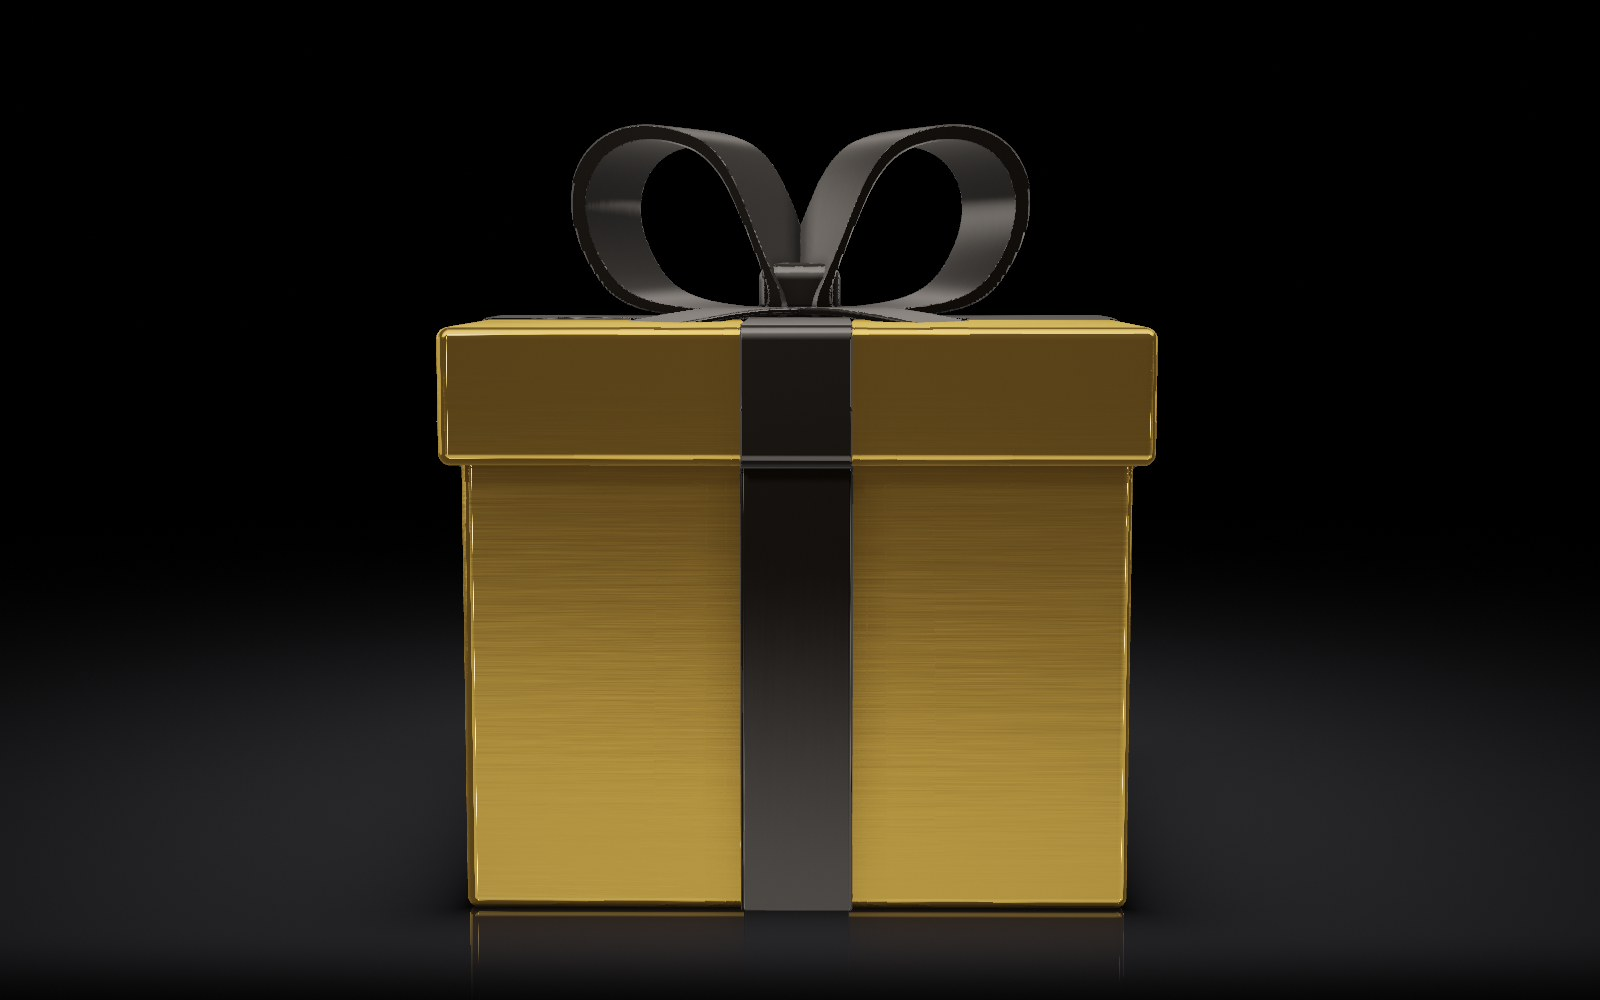
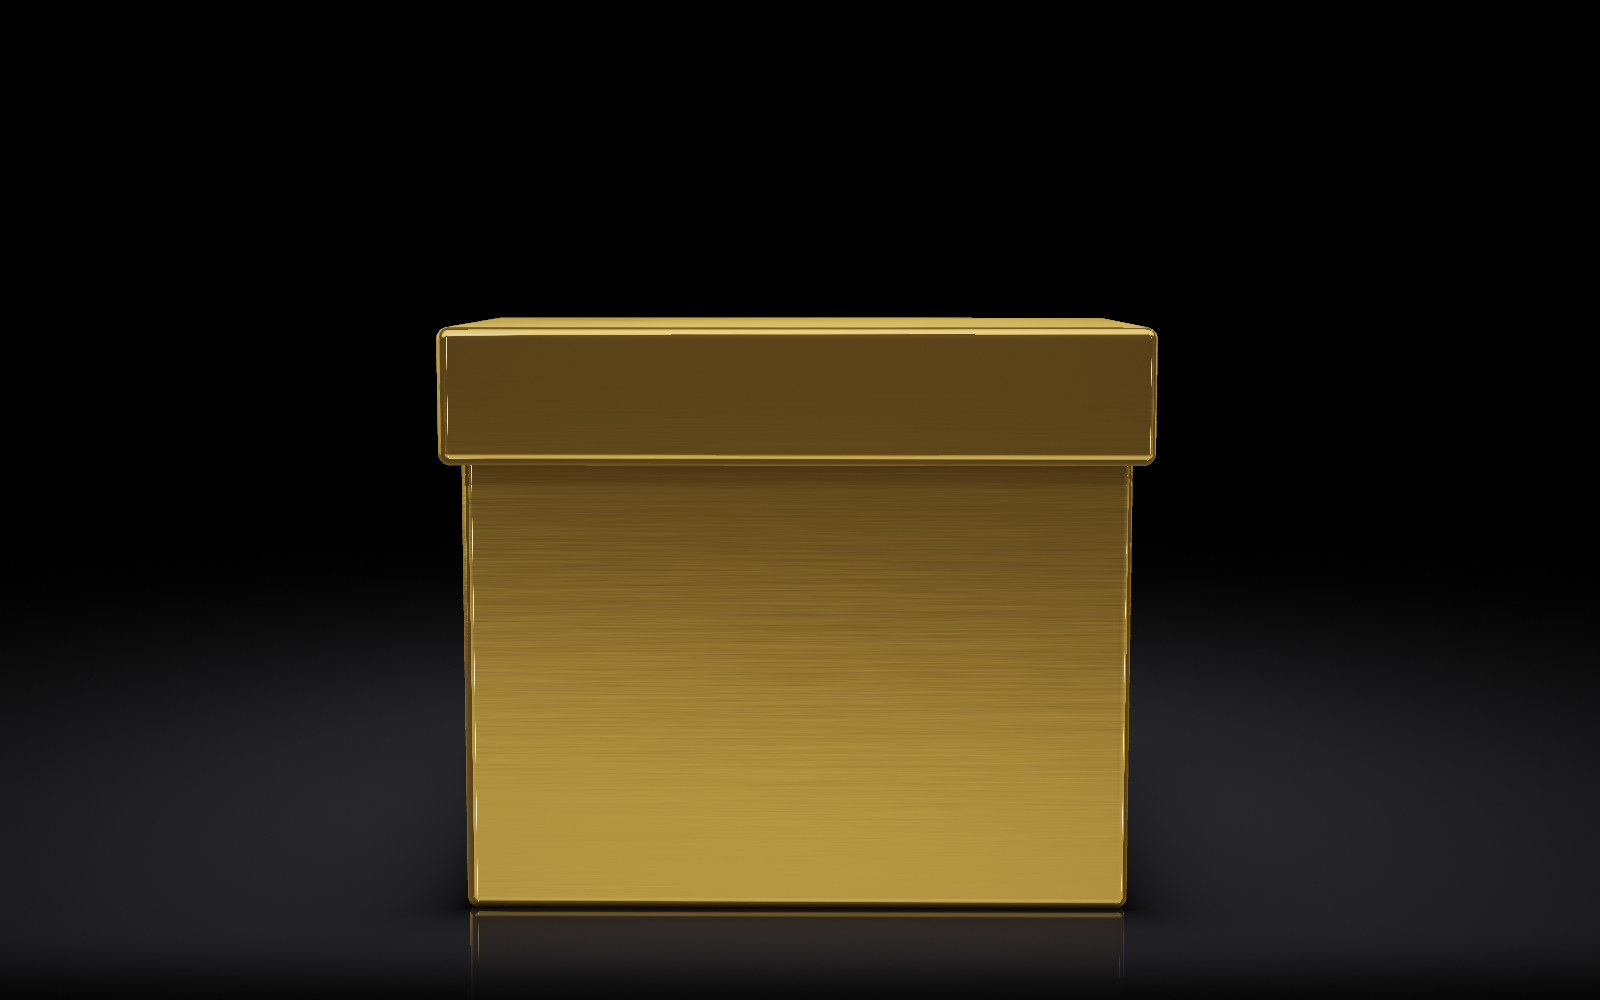
The welcome after the owner's first try: no ribbon and a calmer opening, words that say what the person gets, words centred above the keys, and the message as the last thing before the app (#3961)

Changed region(s): [[0.2812, 0.124, 0.7188, 0.93]]

diff --git a/crates/oni-app/src/stage/unwrap.rs b/crates/oni-app/src/stage/unwrap.rs
@@ -1,5 +1,5 @@
-//! How each gift comes undone: its bow drawn through its knot, its bands fallen open, light leaking under its lid,
-//! then the lid's own way off: a case's for the silver one, a toss for the copper, a flower's for the mystery.
+//! How each gift opens: light leaking under its lid, then the lid's own way off: a case's for the silver one, a
+//! lift for the copper and the gold, a flower's for the mystery.
 
 use super::direction::{LID, STAND};
 use super::ease::{give, glide, land, mix, span};
@@ -22,13 +22,14 @@ pub struct Parts {
 
 impl Parts {
     pub fn tied() -> Parts {
-        Parts { lid: [0.0; 4], tie: [1.0, 1.0, 1.0, 0.0], open: 0.0, seam: 0.0, rise: 0.0, spin: 0.0, lift: 0.0 }
+        // No ribbon: a closed box, its lid seated, no light out of it.
+        Parts { lid: [0.0; 4], tie: [0.0; 4], open: 0.0, seam: 0.0, rise: 0.0, spin: 0.0, lift: 0.0 }
     }
 }
 
 /// How long each gift's untying lasts, and the moment its lid goes.
-const LENGTH: [f32; 4] = [3.6, 4.2, 6.2, 7.0];
-const POP: [f32; 4] = [1.6, 1.9, 2.6, 4.0];
+const LENGTH: [f32; 4] = [2.2, 2.4, 3.2, 3.6];
+const POP: [f32; 4] = [0.8, 0.8, 1.0, 1.4];
 /// How high each opened gift's light stands, a share of the tallest: the silver one's is a breath over its mouth.
 const COLUMN: [f32; 4] = [0.45, 0.8, 1.0, 0.9];
 
@@ -42,7 +43,7 @@ pub fn pop(gift: usize) -> f32 {
 
 /// The second a gift's title arrives: once its lid is down, or its walls open.
 pub fn title(gift: usize) -> f32 {
-    POP[gift] + [0.9, 0.9, 1.3, 1.3][gift]
+    POP[gift] + [0.7, 0.8, 1.1, 1.3][gift]
 }
 
 /// Where the camera starts round each gift and how far it turns while the gift comes undone, in radians.
@@ -80,24 +81,12 @@ fn hinged(angle: f32) -> [f32; 4] {
     [0.0, y - (cos * y - sin * z), z - (sin * y + cos * z), -angle]
 }
 
-/// A gift untied `t` seconds into its act.
+/// A gift opened `t` seconds into its act: a hairline of light under its lid grows as the box fills, the lid
+/// trembles, then lifts away its own way, and the light stands up in the box.
 pub fn untied(gift: usize, t: f32) -> Parts {
     let pop = POP[gift];
     let mut parts = Parts::tied();
-    // When the bow is drawn through its knot, and when the body's bands let go.
-    let (pulled, fall) = match gift {
-        2 => (0.5, (1.2, 1.9)),
-        3 => (2.9, (3.1, 3.8)),
-        _ => (0.3, (0.8, 1.4)),
-    };
-    // Its loops swell a little as the tails take the strain, then run through the knot; what is left narrows away.
-    let drawn = glide(span(t, pulled, pulled + 0.9));
-    parts.tie[0] = mix(1.0 + 0.14 * glide(span(t, (pulled - 0.5f32).max(0.0), pulled)), 0.3, drawn) - 0.3 * glide(span(t, pulled + 0.9, pulled + 1.4));
-    parts.tie[1] = 1.0 - glide(span(t, pulled + 0.7, pulled + 1.4));
-    // The bands fall open and stay where they lie.
-    parts.tie[2] = mix(1.0, 0.5, give(span(t, fall.0, fall.1)));
-    // A hairline of light under the lid grows as the box fills; the lid trembles, then goes, and the light stands up.
-    parts.seam = glide(span(t, pop - 1.0, pop - 0.1)) * (1.0 - span(t, pop, pop + 0.15));
+    parts.seam = glide(span(t, 0.1, pop - 0.05)) * (1.0 - span(t, pop, pop + 0.15));
     let pressed = span(t, pop - 0.35, pop) * (1.0 - span(t, pop, pop + 0.01));
     parts.lid[3] = 0.02 * pressed * (t * 46.0).sin();
     parts.lid[1] = 0.012 * pressed * (t * 38.0).sin().abs();
@@ -108,25 +97,26 @@ pub fn untied(gift: usize, t: f32) -> Parts {
     match gift {
         // The silver one opens like a case: its lid swings back on its rear edge and stays.
         0 => parts.lid = if t >= pop { hinged(1.95 * land(span(t, pop, pop + 0.45)) + 0.08 * (-(t - pop - 0.45).max(0.0) * 6.0).exp() * ((t - pop - 0.45).max(0.0) * 15.0).sin()) } else { parts.lid },
-        2 => parts.lid = if t >= pop { flight(gift, t - pop, 2.6, 1.0, 1.4) } else { parts.lid },
+        // The huge one's lid lifts slowly, level, and settles behind it.
+        2 => parts.lid = if t >= pop { flight(gift, t - pop, 1.4, 0.0, 1.5) } else { parts.lid },
         3 => {
             // It turns once on itself, its inks sweeping, then its lid rises away and its walls fall open.
-            parts.spin = TAU * glide(span(t, 0.9, 3.0));
-            parts.lift = 0.12 * glide(span(t, 0.7, 1.7)) * (1.0 - glide(span(t, 3.0, 3.6)));
+            parts.spin = TAU * glide(span(t, 0.0, pop - 0.2));
+            parts.lift = 0.12 * glide(span(t, 0.0, 0.5)) * (1.0 - glide(span(t, pop - 0.4, pop)));
             if t >= pop {
                 parts.lid = [0.0, 12.0 * give(span(t, pop, pop + 1.3)), 0.0, -0.9 * glide(span(t, pop, pop + 1.3))];
             }
-            parts.open = glide(span(t, pop + 0.15, pop + 1.6));
+            parts.open = glide(span(t, pop + 0.15, pop + 1.4));
         }
-        // The copper one tosses its lid: a hop, two tumbles, down behind it.
-        _ => parts.lid = if t >= pop { flight(gift, t - pop, 1.5, 2.0, 0.95) } else { parts.lid },
+        // The copper one's lid hops off, level, and lands behind it.
+        _ => parts.lid = if t >= pop { flight(gift, t - pop, 1.1, 0.0, 1.0) } else { parts.lid },
     }
     parts
 }
 
 /// An opened gift at rest: its lid where it went, its light low; the mystery flat on the floor.
 pub fn opened(gift: usize) -> Parts {
-    let mut parts = Parts { tie: [0.0, 0.0, 0.5, 0.4], rise: COLUMN[gift], ..Parts::tied() };
+    let mut parts = Parts { tie: [0.0, 0.0, 0.0, 0.4], rise: COLUMN[gift], ..Parts::tied() };
     match gift {
         0 => parts.lid = hinged(1.95),
         3 => (parts.lid, parts.open) = ([0.0, 60.0, 0.0, 0.0], 1.0),

diff --git a/crates/oni-app/tests/window/welcome_card.rs b/crates/oni-app/tests/window/welcome_card.rs
@@ -12,7 +12,7 @@ use crate::common::{self, Placed};
 /// `SheetStyle.margin`.
 const MARGIN: f32 = 24.0;
 /// Each screen's title, a gift's once it is opened.
-const TITLES: [&str; 5] = ["A livelier interface", "The Collection, with The Lens DB", "Your digital photos, on film", "Your year on film", "You already paid for your film."];
+const TITLES: [&str; 5] = ["A livelier interface", "Import your photo kit into ONI, with The Lens DB", "Your digital photos, on film", "Your Wrapped is here", "Tell your friends about ONI."];
 
 fn title(window: &MainWindow, page: usize) -> Placed {
     common::the(window, Role::Text, tr(TITLES[page - 1]))
@@ -20,7 +20,7 @@ fn title(window: &MainWindow, page: usize) -> Placed {
 
 fn commit(window: &MainWindow, page: usize) -> Placed {
     let word = match page {
-        4 => "Read the Message",
+        4 => "Continue",
         5 => "Enter ONI",
         _ => "Next Gift",
     };
@@ -43,7 +43,8 @@ fn sized(rig: &common::Rig, (w, h): (u32, u32)) {
 /// Screen `page` with its gift opened long ago, its words in place, the scroll standing on it.
 fn shown(rig: &common::Rig, help: &Help, page: usize) {
     help.set_welcome_page(page as i32);
-    help.set_scroll((page - 1) as f32);
+    help.set_scroll((page.min(4) - 1) as f32);
+    help.set_message_shown(if page == 5 { 1.0 } else { 0.0 });
     help.set_opened_time(30.0);
     help.set_words_at(0.0);
     help.set_may_go_on(true);
@@ -110,13 +111,13 @@ pub(crate) fn the_welcome_fills_the_window_in_every_language() {
     tap(&rig, key.middle());
     assert!(closed.get(), "the last screen's key leaves the welcome");
 
-    // Without the Collection's gift the rail counts four screens; twin: with it, five.
+    // Without the Collection's gift the rail counts three gifts; twin: with it, four.
     sized(&rig, (w as u32, h as u32));
     shown(&rig, &help, 1);
-    common::the(&window, Role::Text, &tr("Screen {} of {}").replacen("{}", "1", 1).replacen("{}", "5", 1));
+    common::the(&window, Role::Text, &tr("Screen {} of {}").replacen("{}", "1", 1).replacen("{}", "4", 1));
     help.set_kit_gift(false);
     rig.settle();
-    common::the(&window, Role::Text, &tr("Screen {} of {}").replacen("{}", "1", 1).replacen("{}", "4", 1));
+    common::the(&window, Role::Text, &tr("Screen {} of {}").replacen("{}", "1", 1).replacen("{}", "3", 1));
     help.set_kit_gift(true);
     window.hide().unwrap();
 }

diff --git a/crates/oni-app/src/app/help/welcome.rs b/crates/oni-app/src/app/help/welcome.rs
@@ -51,8 +51,10 @@ fn step(page: i32, by: i32) -> i32 {
     if next == 2 && !KIT_GIFT { (next + by).clamp(1, MESSAGE) } else { next }
 }
 
-/// A screen's place in the scroll, the Collection's taking none without its gift.
+/// A screen's place in the scroll, the Collection's taking none without its gift; the message comes over the last
+/// gift's, out of the scroll.
 fn slot(page: i32) -> f32 {
+    let page = page.min(MESSAGE - 1);
     (if !KIT_GIFT && page > 2 { page - 2 } else { page - 1 }) as f32
 }
 
@@ -177,6 +179,19 @@ impl Ctl {
         if let Some(Err(e)) = kept {
             crate::timing::line(&format!("welcome: the opened gifts cannot be kept: {e}"));
         }
+        self.welcome_frame();
+    }
+
+    /// The Wrapped opened from the mystery gift closed: the welcome goes on to its message, the last thing before the
+    /// app.
+    pub(in crate::app) fn welcome_after_wrapped(&self) {
+        let still = self.window().is_some_and(|w| w.global::<crate::Motion>().get_reduced());
+        self.welcome_set(|play| {
+            let now = play.now();
+            if play.page == MESSAGE - 1 {
+                play.go(1, now, still);
+            }
+        });
         self.welcome_frame();
     }
 
@@ -354,6 +369,8 @@ impl Ctl {
         help.set_welcome_unwrapped(i32::from(play.bits()));
         help.set_scroll(slot(play.from) + (slot(play.page) - slot(play.from)) * play.travelled(now, still));
         help.set_stage_shown(cue.shown * cue.gift.map_or(0.0, |i| direction::kept(i, cue.since)));
+        let travelled = play.travelled(now, still);
+        help.set_message_shown(if play.page == MESSAGE { travelled } else if play.from == MESSAGE { 1.0 - travelled } else { 0.0 });
         help.set_gift_shown(cue.gift.map_or(-1, |i| i as i32));
         let since = gift_of(play.page).and_then(|i| play.opened[i]).map_or(-1.0, |o| (now - o).max(0.0));
         help.set_opened_time(since);

diff --git a/crates/oni-app/src/stage/tests.rs b/crates/oni-app/src/stage/tests.rs
@@ -6,10 +6,10 @@ use super::unwrap;
 #[test]
 fn a_screen_shows_its_gift_alone_and_tied_until_it_is_opened() {
     let wrapped = frame(&Cue::at(Some(2), None));
-    assert!(wrapped.gifts[2].place[3] > 0.0 && wrapped.gifts[2].tie[..3] == [1.0, 1.0, 1.0], "the huge gift, tied");
+    assert!(wrapped.gifts[2].place[3] > 0.0 && wrapped.gifts[2].lid == [0.0; 4] && wrapped.gifts[2].tie == [0.0; 4], "the huge gift, closed, no ribbon");
     assert!([0, 1, 3].iter().all(|&k| wrapped.gifts[k].place[3] == 0.0), "and no other");
     let opened = frame(&Cue::at(Some(2), Some(unwrap::length(2) + 1.0)));
-    assert!(opened.gifts[2].tie[..2] == [0.0, 0.0] && opened.gifts[2].lid[1] < 0.0, "opened, its bow gone, its lid down behind it");
+    assert!(opened.gifts[2].lid[1] < 0.0, "opened, its lid down behind it");
     // Twin: the message's screen shows no gift, and the stage goes dark.
     let message = frame(&Cue::at(None, None));
     assert!(message.gifts.iter().all(|g| g.place[3] == 0.0) && message.view[3] == 0.0);
@@ -46,7 +46,7 @@ fn each_gift_comes_undone_in_its_own_way_and_ends_as_it_rests_opened() {
         let (start, end) = (unwrap::untied(gift, 0.0), unwrap::untied(gift, unwrap::length(gift)));
         assert_eq!(start, unwrap::Parts::tied(), "gift {gift} starts tied");
         let rest = unwrap::opened(gift);
-        assert!(end.tie[..2].iter().all(|t| t.abs() < 1e-3) && (end.tie[2] - 0.5).abs() < 1e-3, "gift {gift}: its bow gone, its bands fallen open, {:?}", end.tie);
+        assert!(end.tie[..3].iter().all(|t| *t == 0.0), "gift {gift}: no ribbon at any time, {:?}", end.tie);
         assert!(end.lid.iter().zip(rest.lid).all(|(a, b)| (a - b).abs() < 0.08) || gift == 3, "gift {gift}: its lid where it rests, {:?} against {:?}", end.lid, rest.lid);
         assert!(unwrap::title(gift) < unwrap::length(gift), "gift {gift}: its words arrive before it rests");
     }

diff --git a/crates/oni-app/tests/window/welcome_reel.rs b/crates/oni-app/tests/window/welcome_reel.rs
@@ -212,7 +212,16 @@ pub(crate) fn the_welcome_is_unwrapped_screen_by_screen() {
         }
         reel.play(2.4, 0.2);
         reel.keep();
-        rig.key(&slint::SharedString::from(slint::platform::Key::DownArrow));
+        if gift == 3 {
+            // The Wrapped opened from its gift, then closed: the welcome goes on to its message.
+            let wrapped = shell.window.global::<oni_app::Wrapped>();
+            help.invoke_wrapped();
+            rig.until("the Wrapped shown", std::time::Duration::from_secs(30), || wrapped.get_shown());
+            wrapped.invoke_close();
+            rig.pump();
+        } else {
+            rig.key(&slint::SharedString::from(slint::platform::Key::DownArrow));
+        }
         reel.play(0.8, 0.2);
         assert_eq!(help.get_welcome_page(), page + 1, "on past gift {gift} once opened");
     }

diff --git a/crates/oni-app/tests/window/sheet_stack.rs b/crates/oni-app/tests/window/sheet_stack.rs
@@ -9,7 +9,8 @@ use slint::{ComponentHandle, PhysicalSize, SharedString};
 
 use crate::common;
 
-const SCREENS: usize = 5;
+/// The gifts' screens the rail counts.
+const SCREENS: usize = 4;
 
 fn down(rig: &common::Rig) {
     rig.key(&SharedString::from(Key::DownArrow));
@@ -55,7 +56,7 @@ pub(crate) fn a_sheet_closing_over_another_hands_it_the_keyboard() {
 
     // The rail names the screen shown, following a turn; twin: it names no other count.
     rig.settle();
-    assert!(rail(&window, 2, SCREENS), "the rail names screen 2 of 5");
+    assert!(rail(&window, 2, SCREENS), "the rail names screen 2 of 4");
     down(&rig);
     rig.settle();
     assert!(rail(&window, 3, SCREENS) && !rail(&window, 3, SCREENS - 1), "the rail follows the screen");

diff --git a/crates/oni-app/src/app/help.rs b/crates/oni-app/src/app/help.rs
@@ -151,10 +151,8 @@ impl Ctl {
         help.on_welcome_closed(move || p.welcome_closed());
         Ctl::wire_welcome(me, &help);
         let p = me.clone();
-        help.on_wrapped(move || {
-            p.welcome_closed();
-            p.act(crate::Act::Wrapped);
-        });
+        // The Wrapped comes over the welcome; closed, it leaves the welcome on its message.
+        help.on_wrapped(move || p.act(crate::Act::Wrapped));
         help.on_donate(|| system::open_url(DONATE));
         help.on_instagram(|| INSTAGRAM.into_iter().for_each(system::open_url));
         help.on_contest(|| system::open_url(CONTEST));

diff --git a/crates/oni-app/src/app/year/showing.rs b/crates/oni-app/src/app/year/showing.rs
@@ -230,7 +230,8 @@ impl Ctl {
             g.set_shown(false);
             g.set_sharing(false);
             w.invoke_refocus();
-            return self.publish_bar();
+            self.publish_bar();
+            return self.welcome_after_wrapped();
         }
         self.forget_wrapped();
     }
